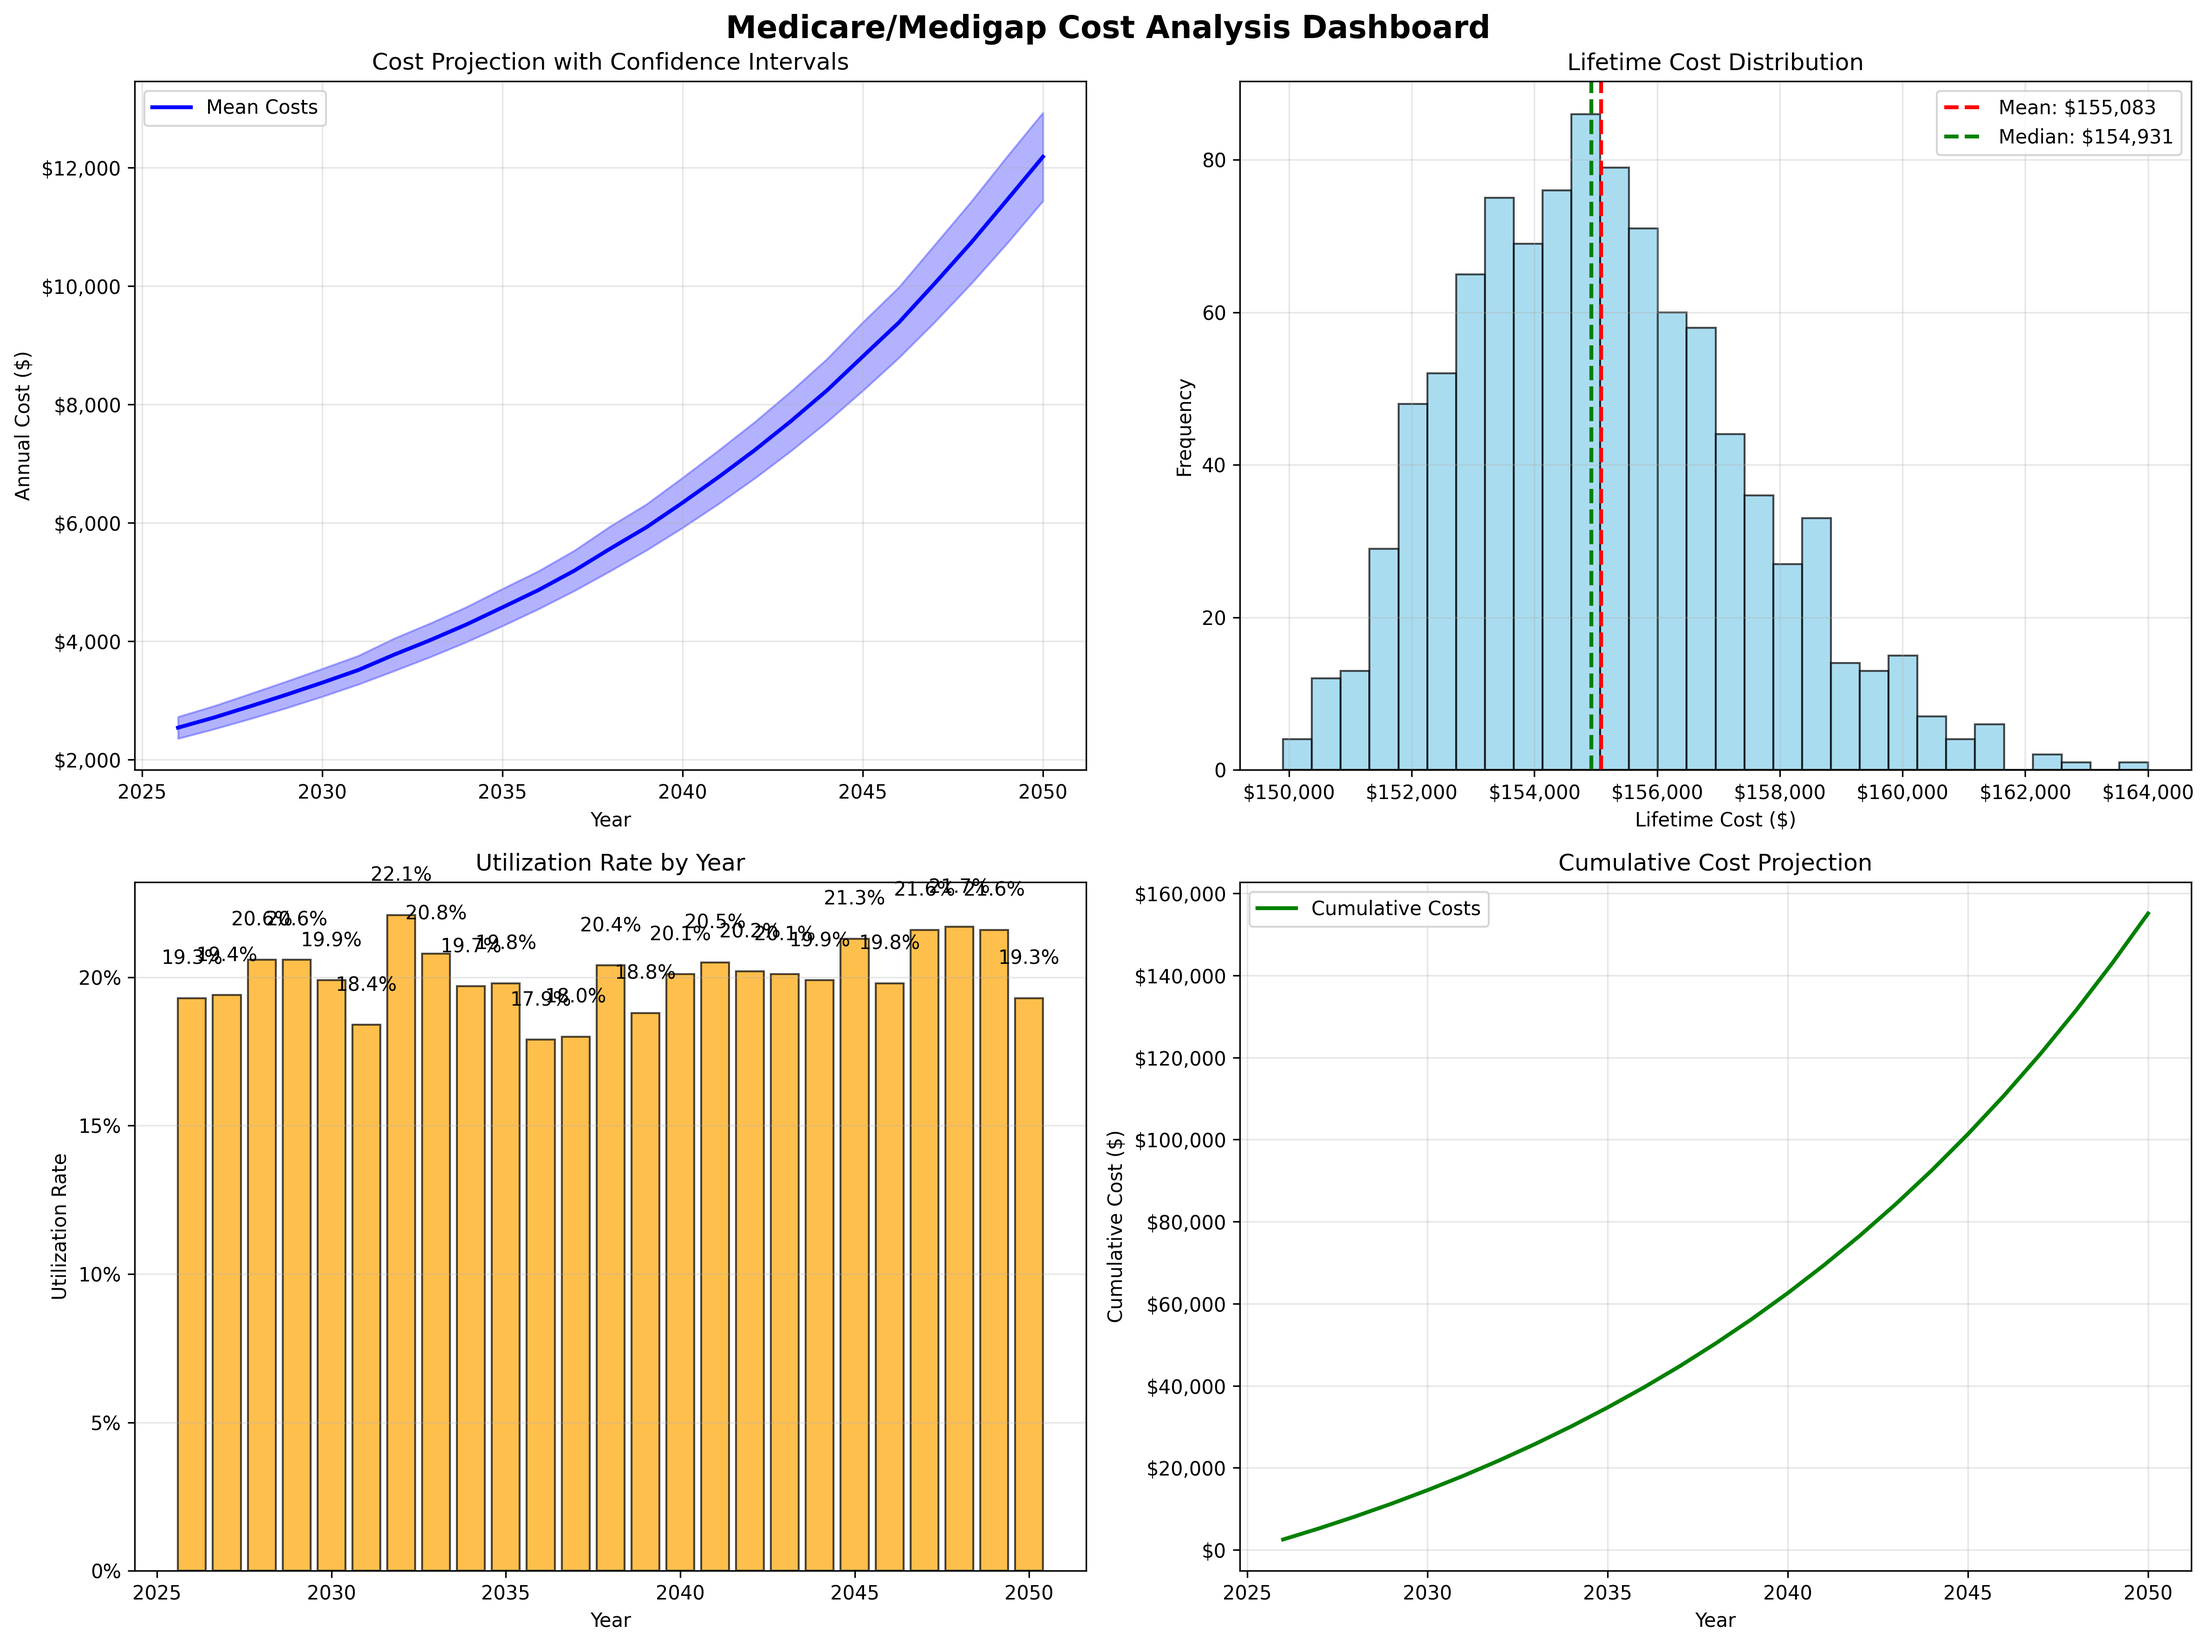
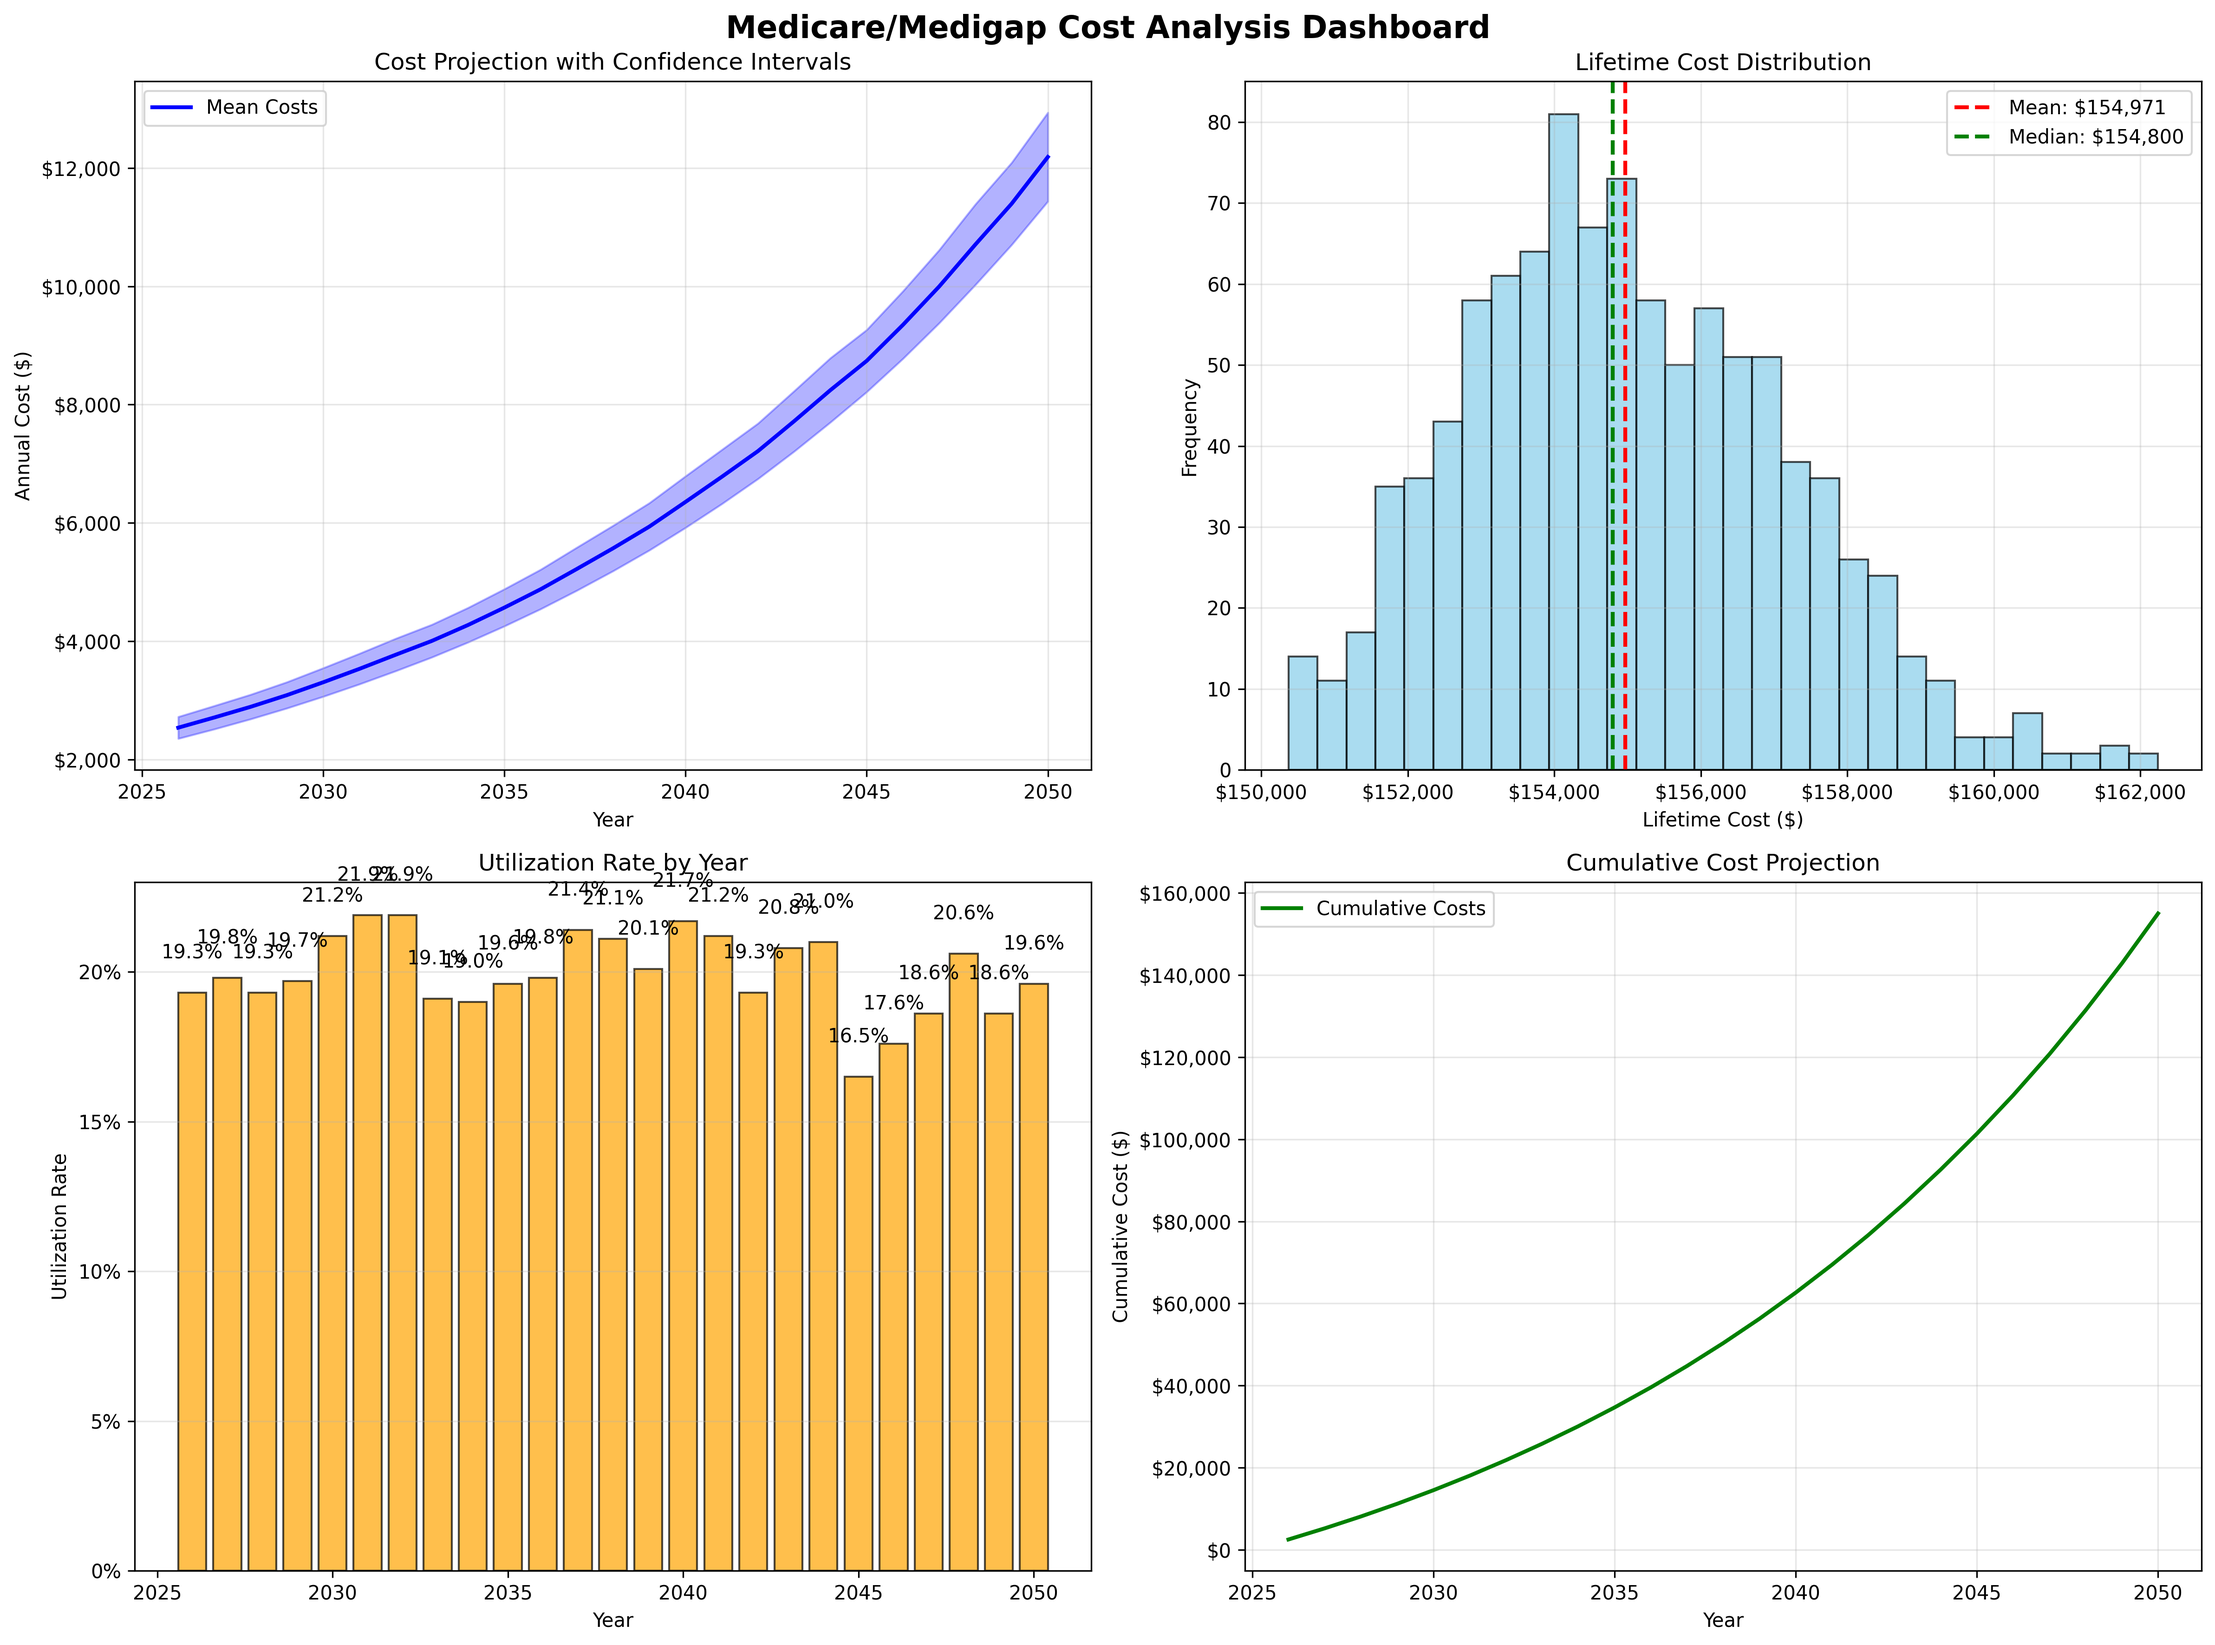
ui tweaks

diff --git a/app.py b/app.py
@@ -68,7 +68,6 @@ def create_parameter_inputs() -> SimulationParameters:
         max_value=0.15,
         value=0.07,
         step=0.01,
-        format="%.1%",
         help="Annual growth rate for Medigap premium"
     )
     
@@ -415,4 +414,27 @@ def main():
 
 
 if __name__ == "__main__":
-    main()
+    full_simulator_page = st.Page(main, title="Full Simulator", default=True)
+    single_plan_page = st.Page(
+        "pages/1_Single_Plan_Simulator.py",
+        title="Single Plan Simulator",
+        url_path="Single_Plan_Simulator",
+    )
+    plan_comparison_page = st.Page(
+        "pages/2_Plan_Comparison.py",
+        title="Plan Comparison",
+        url_path="Plan_Comparison",
+    )
+    pages = [full_simulator_page, single_plan_page, plan_comparison_page]
+    current_page = st.navigation(pages, position="hidden")
+
+    for page in pages:
+        if st.sidebar.button(
+            page.title,
+            key=f"nav_{page.url_path or 'full_simulator'}",
+            type="primary" if page.url_path == current_page.url_path else "secondary",
+            width="stretch",
+        ):
+            st.switch_page(page)
+
+    current_page.run()

diff --git a/pages/1_Single_Plan_Simulator.py b/pages/1_Single_Plan_Simulator.py
@@ -18,12 +18,6 @@ from medigap.simulation.plan_monte_carlo import PlanMonteCarloSimulation
 
 def create_plan_selection() -> tuple:
     """Create plan selection interface and return selected plan and custom parameters."""
-    # Navigation
-    st.sidebar.title("🏥 Open Medicare Simulator")
-    if st.sidebar.button("🏠 Back to Home", use_container_width=True):
-        st.switch_page("main_app.py")
-    st.sidebar.markdown("---")
-    
     st.sidebar.header("🏥 Medicare Plan Selection")
     
     # Plan selection

diff --git a/pages/2_Plan_Comparison.py b/pages/2_Plan_Comparison.py
@@ -18,12 +18,6 @@ from medigap.simulation.plan_monte_carlo import PlanMonteCarloSimulation
 
 def create_plan_comparison_interface():
     """Create interface for comparing two plans."""
-    # Navigation
-    st.sidebar.title("🏥 Open Medicare Simulator")
-    if st.sidebar.button("🏠 Back to Home", use_container_width=True):
-        st.switch_page("main_app.py")
-    st.sidebar.markdown("---")
-    
     st.sidebar.header("🏥 Plan Comparison")
     
     # Plan selection

diff --git a/README.md b/README.md
@@ -2,6 +2,40 @@
 
 A Python application that executes a Monte Carlo simulation of medical costs incurred over a 25-year period (2026-2050) for Medicare Parts A, B, D, and Medigap Plan N.
 
+## Quickstart
+
+This project requires [uv](https://docs.astral.sh/uv/). UV installs the required Python version, creates the virtual environment, and installs the project dependencies from `uv.lock`.
+
+```bash
+git clone https://github.com/angrycarrots/open_medicare_simulator
+cd open_medicare_simulator
+uv sync
+```
+
+### 1. Web app (recommended)
+
+```bash
+uv run streamlit run app.py
+```
+
+Open <http://localhost:8501> if Streamlit does not open it automatically. The web app includes the Full Simulator, Single Plan Simulator, and Plan Comparison pages.
+
+### 2. Desktop GUI
+
+```bash
+uv run python gui.py
+```
+
+The desktop GUI uses Tkinter and requires a graphical desktop environment.
+
+### 3. Command-line interface
+
+```bash
+uv run python main.py
+```
+
+The CLI runs the default simulation, prints its results, and generates the output charts in the project directory.
+
 ## Features
 
 - **Monte Carlo Simulation**: Probabilistic modeling of medical cost projections
@@ -16,61 +50,76 @@ A Python application that executes a Monte Carlo simulation of medical costs inc
 
 ### Prerequisites
 
-- Python 3.13 or higher
-- uv package manager (recommended) or pip
+- [uv](https://docs.astral.sh/uv/getting-started/installation/)
+
+Python 3.13 or higher is required by the project and is managed automatically by UV when needed.
 
 ### Setup
 
 1. Clone the repository:
+
 ```bash
 git clone <repository-url>
-cd medigap
+cd open_medicare_simulator
 ```
 
-2. Create and activate virtual environment:
+2. Create the environment and install the locked dependencies:
+
 ```bash
-uv venv .venv
-source .venv/bin/activate  # On Windows: .venv\Scripts\activate
+uv sync
 ```
 
-3. Install dependencies:
-```bash
-uv pip install -e .
-```
+There is no need to activate `.venv`; run project commands through `uv run`.
 
-4. Install development dependencies:
+3. To install the development tools and test dependencies:
+
 ```bash
-uv pip install -e ".[dev]"
+uv sync --extra dev
 ```
 
 ## Usage
 
-### Basic Usage
+### Web application
 
-#### Command Line Interface
-
-Run the simulation with default parameters:
+Start the multipage Streamlit application:
 
 ```bash
-python main.py
+uv run streamlit run app.py
 ```
 
-#### Graphical User Interface
+The web interface provides:
 
-For a more user-friendly experience, use the GUI application:
+- A full simulator with configurable cost and growth assumptions
+- A single-plan simulator with predefined and custom plans
+- Side-by-side plan comparison
+- Interactive charts, percentile analysis, and CSV downloads
+
+### Graphical user interface
+
+Start the desktop Tkinter application:
 
 ```bash
-python gui.py
+uv run python gui.py
 ```
 
 The GUI provides:
+
 - Interactive parameter input with validation
 - Real-time simulation progress
 - Multiple chart types (expenditure, lifetime distribution, dashboard)
 - Export functionality for results and charts
 - Tabbed interface for easy navigation
 
-This will:
+### Command-line interface
+
+Run the default simulation from a terminal:
+
+```bash
+uv run python main.py
+```
+
+The CLI will:
+
 - Run 1,000 Monte Carlo simulations
 - Display comprehensive cost statistics table with minimum, maximum, and median values
 - Show detailed year-by-year cost breakdown with all premium and deductible components
@@ -186,16 +235,16 @@ Run the test suite:
 
 ```bash
 # Run all tests
-pytest
+uv run pytest
 
 # Run with coverage
-pytest --cov=src/medigap --cov-report=html
+uv run pytest --cov=src/medigap --cov-report=html
 
 # Run specific test file
-pytest tests/test_monte_carlo.py
+uv run pytest tests/test_monte_carlo.py
 
 # Run with verbose output
-pytest -v
+uv run pytest -v
 ```
 
 ## Development
@@ -213,13 +262,13 @@ Run code quality checks:
 
 ```bash
 # Format code
-black src/ tests/
+uv run black src/ tests/
 
 # Lint code
-flake8 src/ tests/
+uv run flake8 src/ tests/
 
 # Type check
-mypy src/
+uv run mypy src/
 ```
 
 ### Adding New Features
